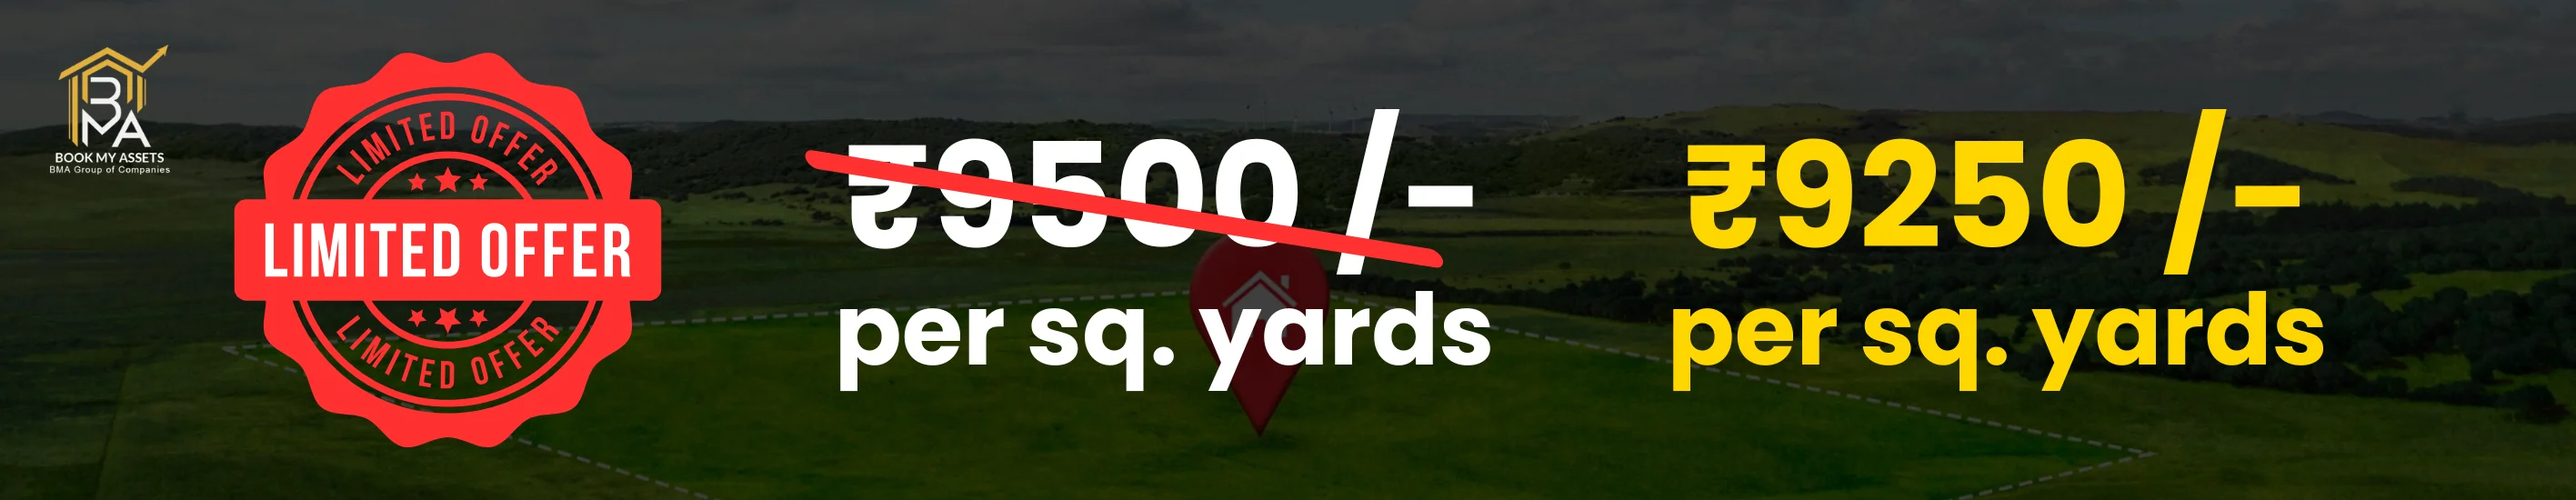
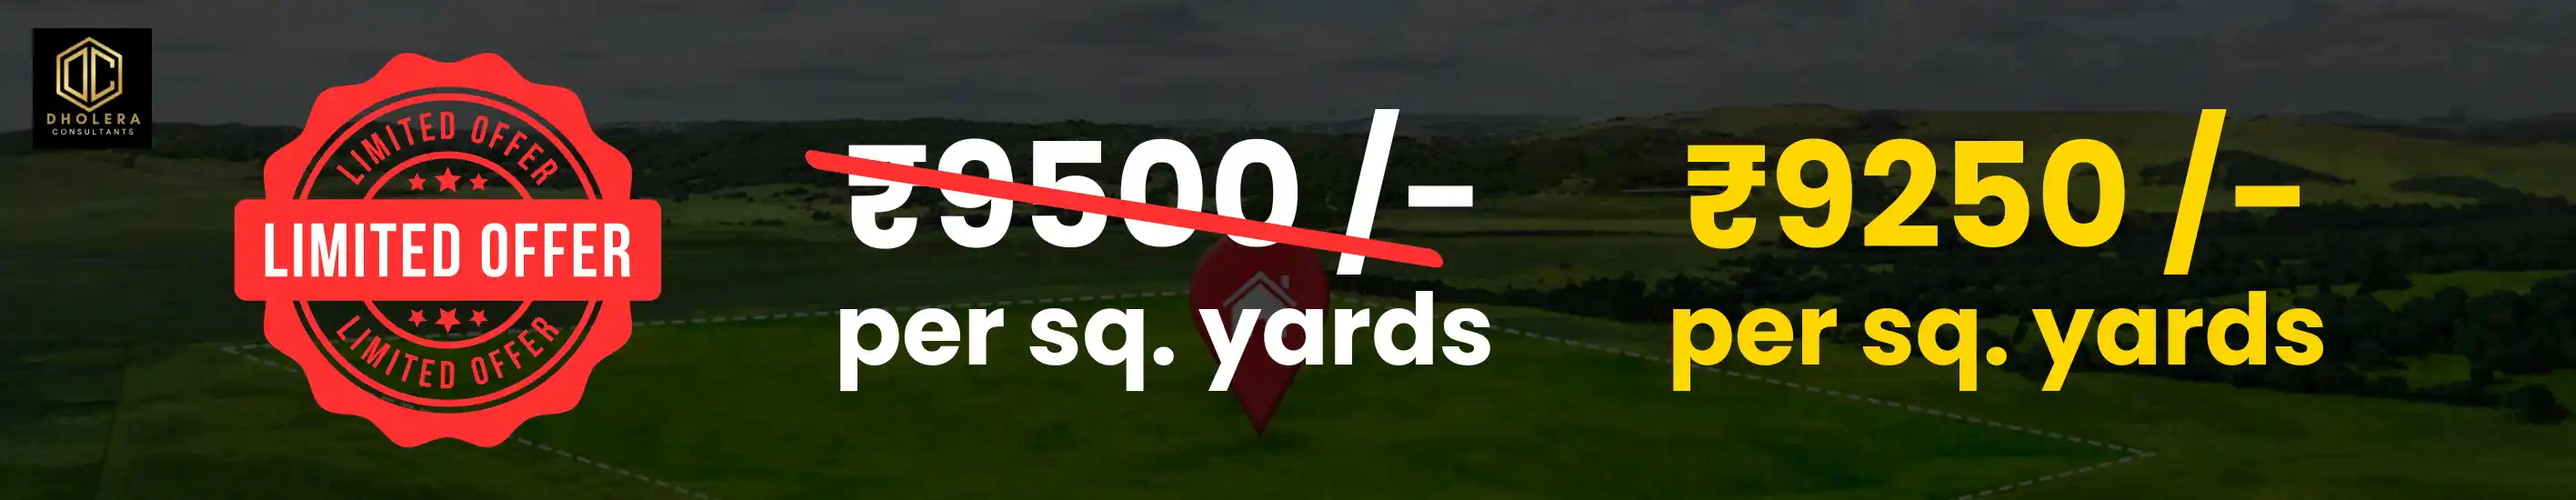
changes

Changed region(s): [[0.0, 0.0309, 0.0621, 0.3709]]

diff --git a/src/app/components/Navbar.jsx b/src/app/components/Navbar.jsx
@@ -1,7 +1,7 @@
 "use client";
 import React, { useState, useRef } from "react";
 import { useRouter, usePathname } from "next/navigation"; // Add these imports
-import logo from "@/assests/dholeraConsultant.png";
+import logo from "@/assests/dholeraConsultant.webp";
 import Image from "next/image";
 import { AnimatePresence, motion } from "framer-motion";
 import { Menu, X } from "lucide-react";
@@ -28,7 +28,7 @@ export default function Navbar() {
     setIsMenuOpen(false);
     
     // Check if we're on the main page
-    if (pathname === '/more-info') {
+    if (pathname === '/') {
       // If on main page, just scroll to section
       const element = document.getElementById(section.replace('#', ''));
       if (element) {
@@ -91,8 +91,8 @@ export default function Navbar() {
           >
             <Image
               src={logo}
-              height={60}
-              width={60}
+              height={100}
+              width={100}
               alt="Logo"
               className="cursor-pointer"
             />

diff --git a/src/app/components/PopUpForm.jsx b/src/app/components/PopUpForm.jsx
@@ -2,7 +2,7 @@ import { useState, useEffect, useRef } from "react";
 import { FaUser, FaPhoneAlt, FaClock, FaMapMarkerAlt } from "react-icons/fa";
 import Image from "next/image";
 import { motion, AnimatePresence } from "framer-motion";
-import logo from "@/assests/dholeraConsultant.png";
+import logo from "@/assests/dholeraConsultant.webp";
 import { useRouter, usePathname } from "next/navigation"
 
 export default function PopupForm({
@@ -376,8 +376,8 @@ useEffect(() => {
                 <Image
                   src={logo}
                   alt="Logo"
-                  width={50}
-                  height={50}
+                  width={70}
+                  height={70}
                   className="rounded-full"
                 />
                 {/* Shine effect */}

diff --git a/src/app/components/BrochureDownload.jsx b/src/app/components/BrochureDownload.jsx
@@ -3,7 +3,7 @@ import { useState, useEffect, useRef } from "react";
 import { FaUser, FaPhoneAlt } from "react-icons/fa";
 import Image from "next/image";
 import { motion, AnimatePresence } from "framer-motion";
-import logo from "@/assests/dholeraConsultant.png";
+import logo from "@/assests/dholeraConsultant.webp";
 import { useRouter, usePathname } from "next/navigation"
 
 export default function BrochureDownload({

diff --git a/src/app/components/GetinTouch.jsx b/src/app/components/GetinTouch.jsx
@@ -3,7 +3,7 @@ import { useState, useEffect, useRef } from "react";
 import { FaUser, FaPhoneAlt } from "react-icons/fa";
 import Image from "next/image";
 import { motion, AnimatePresence } from "framer-motion";
-import logo from "@/assests/dholeraConsultant.png";
+import logo from "@/assests/dholeraConsultant.webp";
 import { useRouter, usePathname } from "next/navigation"
 
 export default function GetinTouch({

diff --git a/src/app/components/Investcalc.jsx b/src/app/components/Investcalc.jsx
@@ -3,7 +3,7 @@ import { useState, useEffect, useRef } from "react";
 import { FaUser, FaPhoneAlt } from "react-icons/fa";
 import Image from "next/image";
 import { motion, AnimatePresence } from "framer-motion";
-import logo from "@/assests/dholeraConsultant.png";
+import logo from "@/assests/dholeraConsultant.webp";
 import { useRouter, usePathname } from "next/navigation"
 
 export default function InvestCalc({

diff --git a/src/app/components/EnquireNow.jsx b/src/app/components/EnquireNow.jsx
@@ -3,7 +3,7 @@ import { useState, useEffect, useRef } from "react";
 import { FaUser, FaPhoneAlt } from "react-icons/fa";
 import Image from "next/image";
 import { motion, AnimatePresence } from "framer-motion";
-import logo from "@/assests/dholeraConsultant.png";
+import logo from "@/assests/dholeraConsultant.webp";
 import { useRouter, usePathname } from "next/navigation"
 
 export default function Enquire({

diff --git a/src/app/body/HeroSlider.jsx b/src/app/body/HeroSlider.jsx
@@ -5,7 +5,7 @@ import Image from "next/image";
 import { motion, AnimatePresence } from "framer-motion";
 import "swiper/css";
 import "swiper/css/pagination";
-import logo from "@/assests/dholeraConsultant.png";
+import logo from "@/assests/dholeraConsultant.webp";
 
 export default function LandingPage({ img1, mimg1, openForm }) {
   const [isLoading, setIsLoading] = useState(false);
